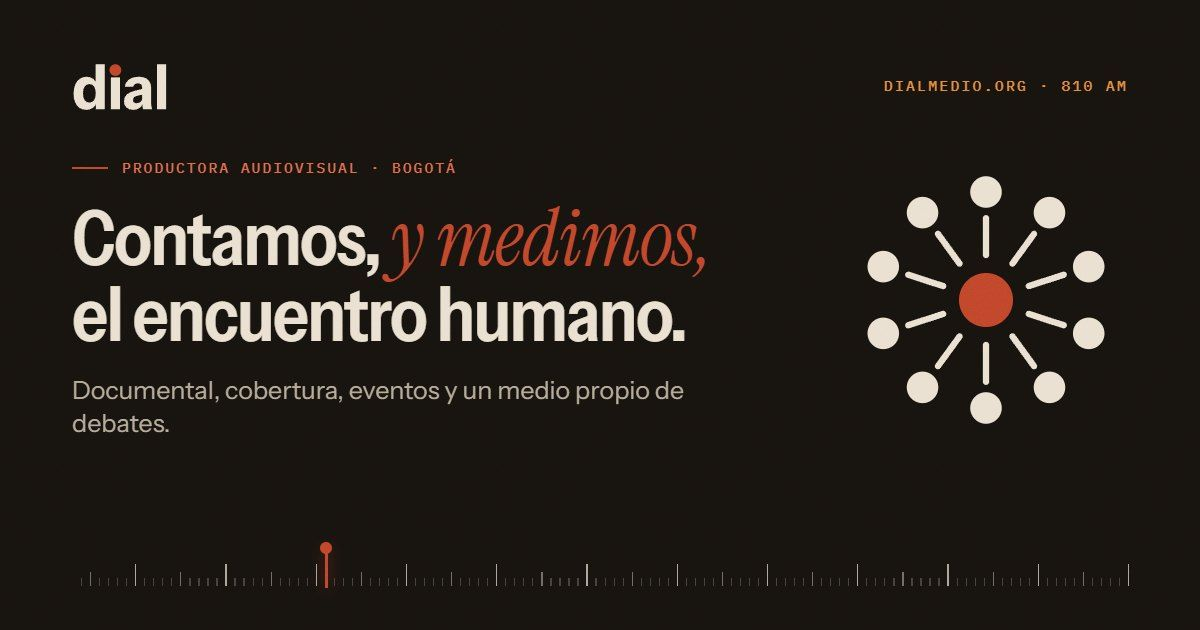
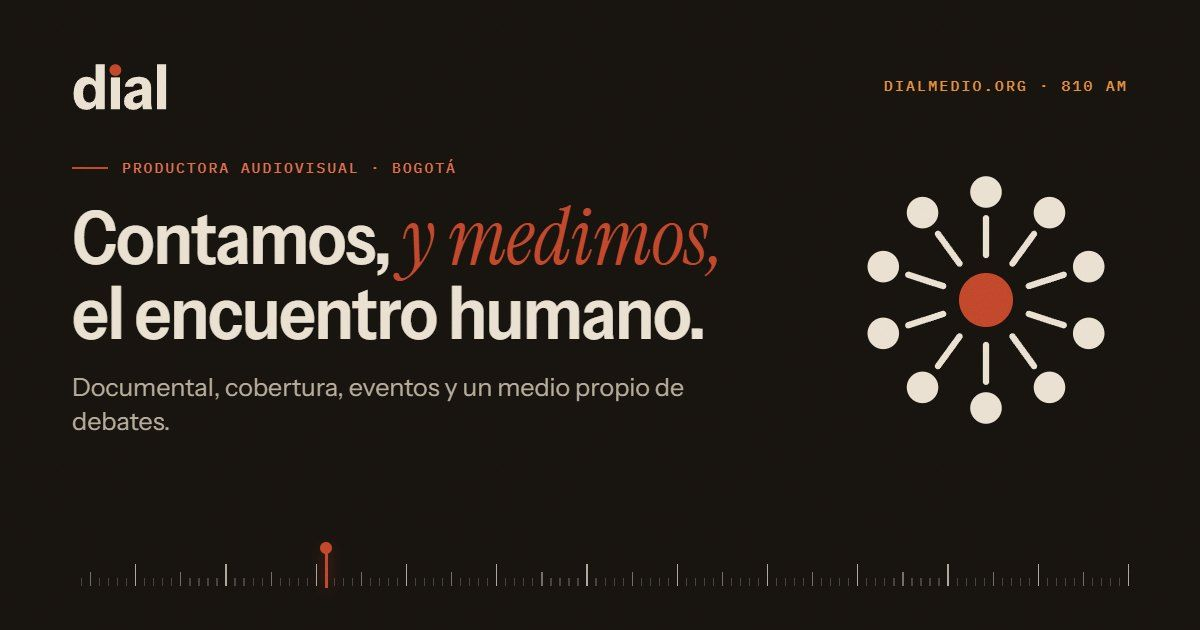
Pasada tipográfica fina
- Espaciado óptico por tamaño en titulares (ancho 88 %), subtítulos más
  abiertos y texto de 17–18 px con líneas de 60–70 caracteres.
- Serif cursiva compensada (+12 % en texto, +7 % en titulares) y clase
  .gancho para frases destacadas; firma de Dial Medio en serif.
- La mono queda solo para datos: frases descriptivas pasan a la sans.
- Listas de servicio a una columna en celulares; manual e imágenes para
  compartir sincronizados con los valores finales.

diff --git a/src/styles/global.css b/src/styles/global.css
@@ -64,11 +64,11 @@ body {
   background: var(--papel);
   color: var(--carbon);
   font-family: var(--f-texto);
-  font-size: clamp(1rem, 0.97rem + 0.2vw, 1.09rem);
+  font-size: clamp(1.0625rem, 1rem + 0.2vw, 1.125rem);
   line-height: 1.6;
   font-stretch: 100%;
+  letter-spacing: .004em;
   font-optical-sizing: auto;
-  font-feature-settings: 'ss01';
   -webkit-font-smoothing: antialiased;
   text-rendering: optimizeLegibility;
   overflow-x: hidden;
@@ -81,7 +81,8 @@ button { font: inherit; color: inherit; }
 p { margin: 0 0 1em; text-wrap: pretty; }
 h1, h2, h3, h4 { margin: 0; font-weight: 400; text-wrap: balance; }
 /* Énfasis: la voz de acento de Dial es la serif cursiva. */
-em { font-family: var(--f-serif); font-style: italic; font-weight: 400; font-stretch: normal; letter-spacing: 0; font-size: 1.08em; line-height: 1; }
+/* Instrument Serif tiene menor altura de x que la sans: se compensa con +12 % para que no se vea pequeña. */
+em { font-family: var(--f-serif); font-style: italic; font-weight: 400; font-stretch: normal; letter-spacing: .005em; font-size: 1.12em; line-height: 1; }
 .cursiva { font-family: var(--f-serif); font-style: italic; font-weight: 400; letter-spacing: 0; }
 ul, ol { margin: 0; padding: 0; }
 ::selection { background: var(--terracota); color: var(--hueso); }
@@ -138,30 +139,31 @@ ul, ol { margin: 0; padding: 0; }
 .grano > * { position: relative; z-index: 1; }
 
 /* ---------- Tipografía ---------- */
-/* Titulares: Instrument Sans semibold, semicondensada, en caja mixta. */
+/* Titulares: Instrument Sans semibold, semicondensada (88 %), en caja mixta.
+   El espaciado es óptico: más cerrado cuanto más grande, más abierto cuanto más pequeño. */
 .display {
   font-family: var(--f-display);
   font-weight: 600;
-  font-stretch: 84%;
+  font-stretch: 88%;
   line-height: 1;
-  letter-spacing: -.024em;
+  letter-spacing: -.018em;
 }
-.display em { font-size: 1.04em; letter-spacing: -.01em; color: var(--acento-display, var(--terracota)); }
-.d-1 { font-size: clamp(3rem, 1rem + 6.4vw, 7.6rem); line-height: .96; }
-.d-2 { font-size: clamp(2.3rem, 1.2rem + 4.3vw, 5.1rem); }
-.d-3 { font-size: clamp(1.9rem, 1.2rem + 2.4vw, 3.3rem); line-height: 1.04; }
-.d-4 { font-size: clamp(1.5rem, 1.15rem + 1.2vw, 2.1rem); line-height: 1.08; letter-spacing: -.022em; }
+.display em { font-size: 1.07em; letter-spacing: -.005em; color: var(--acento-display, var(--terracota)); }
+.d-1 { font-size: clamp(3rem, 1.1rem + 6vw, 7.25rem); line-height: .95; letter-spacing: -.022em; }
+.d-2 { font-size: clamp(2.25rem, 1.25rem + 3.8vw, 4.6rem); line-height: 1; letter-spacing: -.02em; }
+.d-3 { font-size: clamp(1.85rem, 1.25rem + 2.1vw, 3.1rem); line-height: 1.05; letter-spacing: -.016em; }
+.d-4 { font-size: clamp(1.5rem, 1.2rem + 1vw, 2rem); line-height: 1.1; letter-spacing: -.012em; }
 
 .sub {
   font-family: var(--f-sub);
   font-weight: 600;
-  font-stretch: 92%;
-  line-height: 1.15;
-  letter-spacing: -.015em;
+  font-stretch: 94%;
+  line-height: 1.2;
+  letter-spacing: -.008em;
 }
-.s-1 { font-size: clamp(1.5rem, 1.2rem + 1.2vw, 2.1rem); }
-.s-2 { font-size: clamp(1.2rem, 1.08rem + .5vw, 1.45rem); }
-.s-3 { font-size: 1.1rem; }
+.s-1 { font-size: clamp(1.45rem, 1.2rem + 1vw, 1.95rem); line-height: 1.15; }
+.s-2 { font-size: clamp(1.2rem, 1.1rem + .4vw, 1.4rem); }
+.s-3 { font-size: 1.15rem; }
 
 .kicker {
   font-family: var(--f-mono);
@@ -201,20 +203,23 @@ ul, ol { margin: 0; padding: 0; }
 }
 
 .lead {
-  font-size: clamp(1.15rem, 1rem + .6vw, 1.45rem);
+  font-size: clamp(1.2rem, 1.05rem + .5vw, 1.4rem);
   line-height: 1.5;
-  max-width: 38ch;
+  letter-spacing: 0;
+  max-width: 40ch;
 }
 /* Frases de manifiesto: Instrument Serif, la voz editorial. */
 .lead-xl {
   font-family: var(--f-serif);
-  font-size: clamp(1.6rem, 1.1rem + 1.9vw, 2.9rem);
-  line-height: 1.18;
+  font-size: clamp(1.7rem, 1.15rem + 1.9vw, 2.9rem);
+  line-height: 1.2;
   font-weight: 400;
-  letter-spacing: -.01em;
+  letter-spacing: .005em;
 }
 .lead-xl em { font-size: 1em; color: var(--acento-texto); }
 .texto-2 { color: var(--texto-2); }
+/* Frase gancho: serif cursiva, siempre un paso por encima del texto que presenta. */
+.gancho { font-family: var(--f-serif); font-style: italic; font-weight: 400; letter-spacing: .005em; line-height: 1.25; color: var(--acento-texto); }
 .acento { color: var(--acento-texto); }
 .medida { max-width: 62ch; }
 
